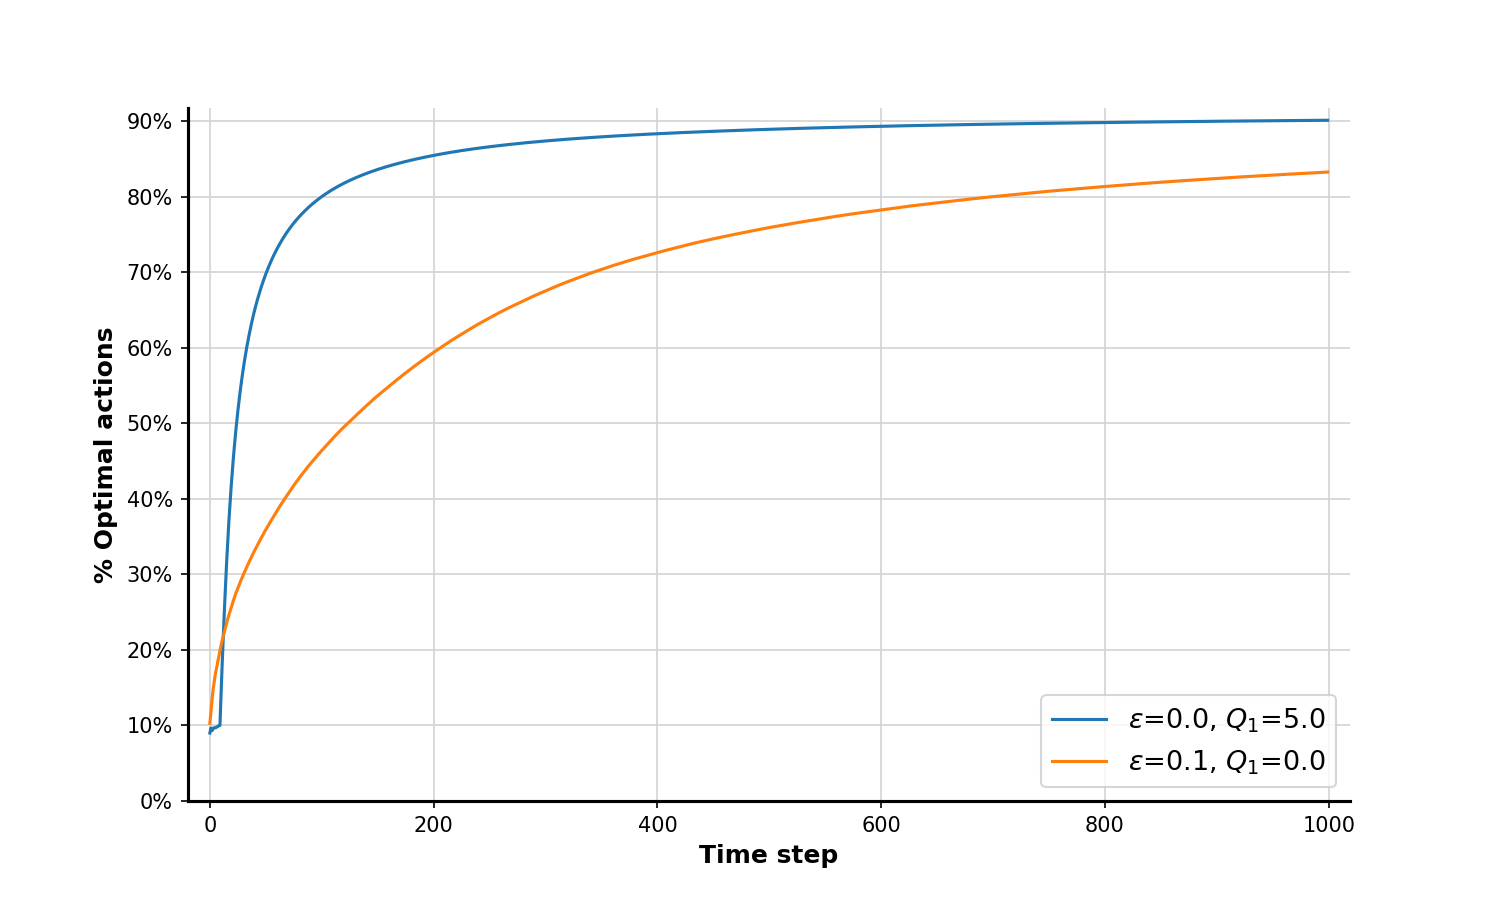
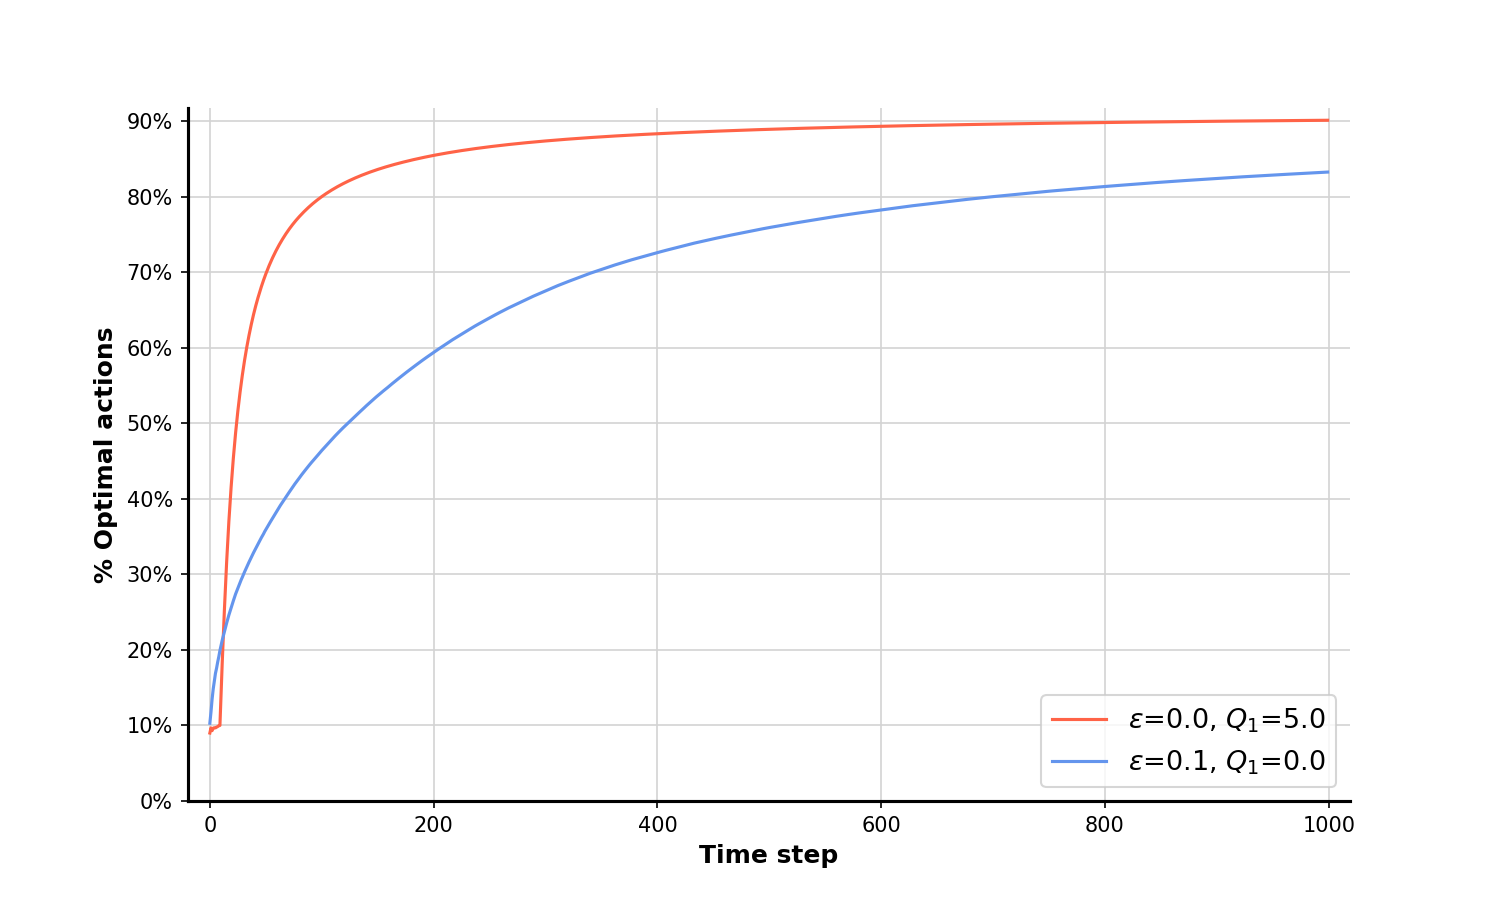
chapter 2 plots updated

diff --git a/chapter_2_k_armed_bandits/utils.py b/chapter_2_k_armed_bandits/utils.py
@@ -39,10 +39,12 @@ def plot(data:np.array,
     plt.figure(figsize=(10, 6), dpi=150)
     plt.grid(c='lightgray')
     plt.margins(0.02)
+
     # revers the loop for a better visualization
+    colors = ['cornflowerblue', 'tomato', 'lightseagreen']
     for i in range(len(data)-1, -1, -1):
-        # plt.plot(uniform_filter(data[i], 5), label=f"{legends[i]} method", linewidth=1.5)
-        plt.plot(data[i], label=legends[i], linewidth=1.5)
+        # data[i] = uniform_filter(data[i])
+        plt.plot(data[i], label=legends[i], linewidth=1.5, c=colors[i])
     
     # get rid of the top/right frame lines
     for i, spine in enumerate(plt.gca().spines.values()):

diff --git a/chapter_2_k_armed_bandits/plotting.py b/chapter_2_k_armed_bandits/plotting.py
@@ -68,6 +68,6 @@ def exercise_2_5(save_fig=False):
 
 if __name__ == '__main__':
 
-    # example_2_2()
-    example_2_3(save_fig=True)
-    # exercise_2_5()
+    example_2_2(save_fig=True)
+    # example_2_3(save_fig=True)
+    # exercise_2_5(save_fig=True)
